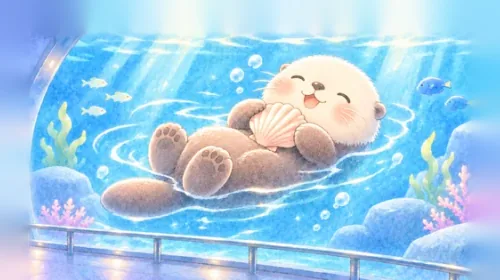
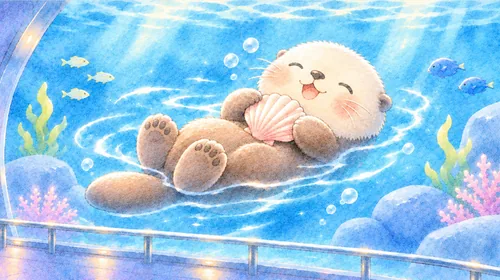
サメ・ラッコを差し替え
Claude-Session: https://claude.ai/code/session_01Py86tRpSHYAiR5yGxFmHgx

diff --git a/sw.js b/sw.js
@@ -1,4 +1,4 @@
-const CACHE='card-v96';
+const CACHE='card-v97';
 const FILES=['./','index.html','word.js','sfx.js','bgm/day.mp3','bgm/night.mp3','bgm/classic.mp3','manifest.json','back1.webp','back2.webp','back3.webp','back4.webp','snow_j.webp','snow_g.webp','snow_h.webp','snow_i.webp','icon-192.png','icon-512.png'];
 self.addEventListener('install',e=>{e.waitUntil(caches.open(CACHE).then(c=>c.addAll(FILES)));self.skipWaiting()});
 self.addEventListener('activate',e=>{e.waitUntil(caches.keys().then(ks=>Promise.all(ks.filter(k=>k.startsWith('card-')&&k!==CACHE).map(k=>caches.delete(k)))).then(()=>self.clients.claim()))});
